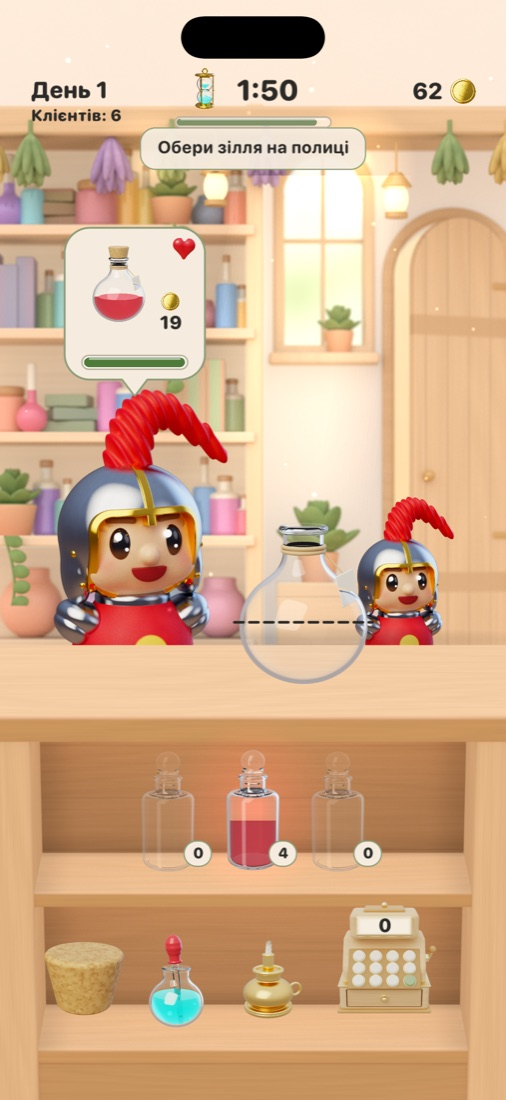
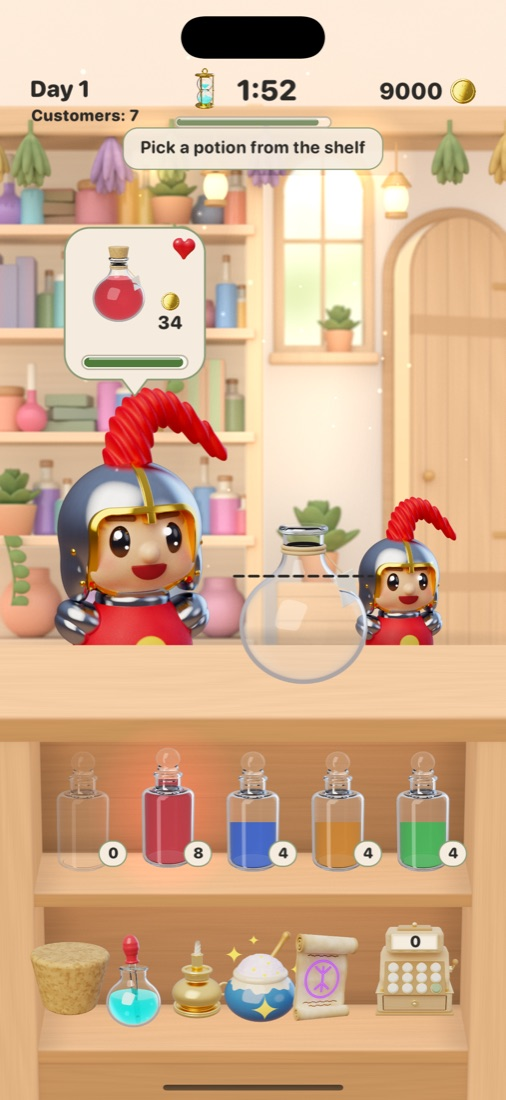
Site: English screenshots, privacy notes no analytics
Replace the Ukrainian screenshots with English ones (counter, cauldron,
pan, workbench, mortar), drop the unused ones, and state in the privacy
policy that the game has no analytics.

diff --git a/privacy.html b/privacy.html
@@ -27,7 +27,7 @@
       <p>Potioncrafter (Ukrainian: Зіллярня) is a single-player game for iPhone. This policy explains what happens to your information when you play it. The short version: the game does not collect any personal data.</p>
 
       <h2>Data we collect</h2>
-      <p>None. The game has no accounts, no sign-in, no ads and no tracking. We do not collect, store or sell any personal information, and we do not use the advertising identifier.</p>
+      <p>None. The game has no accounts, no sign-in, no ads, no analytics and no tracking. We do not collect, store or sell any personal information, and we do not use the advertising identifier.</p>
 
       <h2>Your game progress</h2>
       <p>Your coins, recipes, equipment and settings are saved only on your device. Deleting the app deletes them.</p>
@@ -42,7 +42,7 @@
       <p>The game is suitable for all ages and collects no personal information from anyone, including children.</p>
 
       <h2>Changes</h2>
-      <p>If this policy changes, for example if the game ever adds anonymous usage statistics, we will update this page and the date above before the change reaches the app.</p>
+      <p>If this policy changes, for example if a future version adds anonymous gameplay statistics, we will update this page and the date above before that version is released.</p>
 
       <h2>Contact</h2>
       <p>Questions about privacy: see the <a href="support.html">Support page</a>.</p>
@@ -50,7 +50,7 @@
       <details>
         <summary>Українською</summary>
         <p><strong>Політика конфіденційності «Зіллярні»</strong>, чинна з 10 листопада 2026 року.</p>
-        <p>Гра не збирає особистих даних: немає акаунтів, реклами й стеження. Прогрес зберігається лише на вашому пристрої.</p>
+        <p>Гра не збирає особистих даних: немає акаунтів, реклами, аналітики й стеження. Прогрес зберігається лише на вашому пристрої.</p>
         <p>Мікрофон потрібен тільки для необов'язкового чарівного слова, і лише якщо ви дозволите. Слово розпізнає сервіс Apple — на пристрої, якщо він це підтримує, інакше через сервер Apple. Гра не записує звук і не надсилає його нам.</p>
         <p>Покупки обробляє Apple. Ми не бачимо ваших платіжних даних.</p>
         <p>Питання — на <a href="support.html">сторінці підтримки</a>.</p>

diff --git a/index.html b/index.html
@@ -82,11 +82,11 @@
       <h2>Screenshots</h2>
       <p class="sub">Swipe to see more.</p>
       <div class="shots">
-        <img src="img/shop-counter.jpg" alt="Selling a potion at the counter" loading="lazy">
+        <img src="img/shop-counter.jpg" alt="A knight waits at the counter for a healing potion" loading="lazy">
+        <img src="img/cauldron.jpg" alt="Dragging ingredients into the cauldron" loading="lazy">
+        <img src="img/pan.jpg" alt="Frying fireroot in a pan" loading="lazy">
         <img src="img/workbench.jpg" alt="The workbench and recipe book" loading="lazy">
-        <img src="img/potion-ready.jpg" alt="A finished healing potion" loading="lazy">
-        <img src="img/day-summary.jpg" alt="End-of-day summary" loading="lazy">
-        <img src="img/coin-shop.jpg" alt="The coin shop and the full version" loading="lazy">
+        <img src="img/mortar.jpg" alt="Grinding moonleaf in a mortar" loading="lazy">
       </div>
     </section>
 
